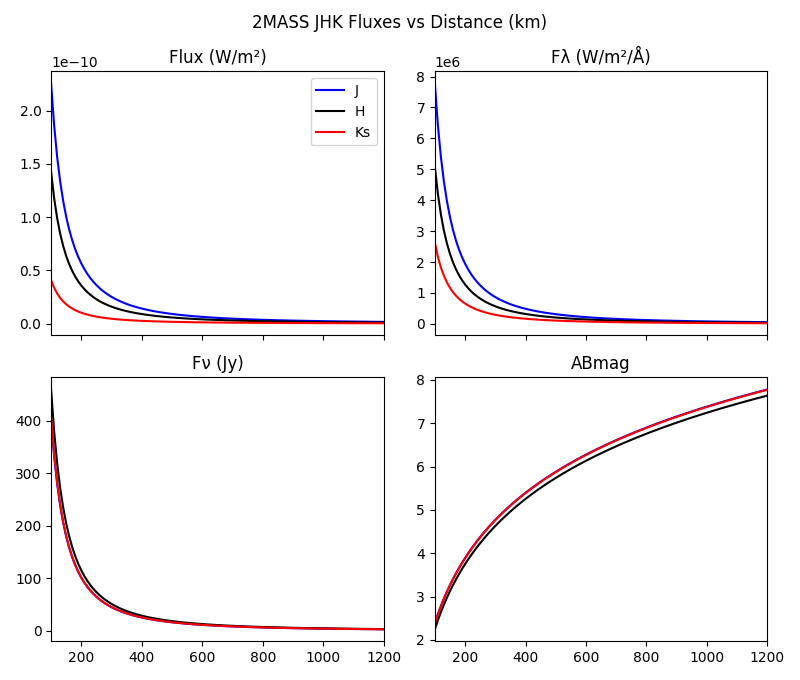
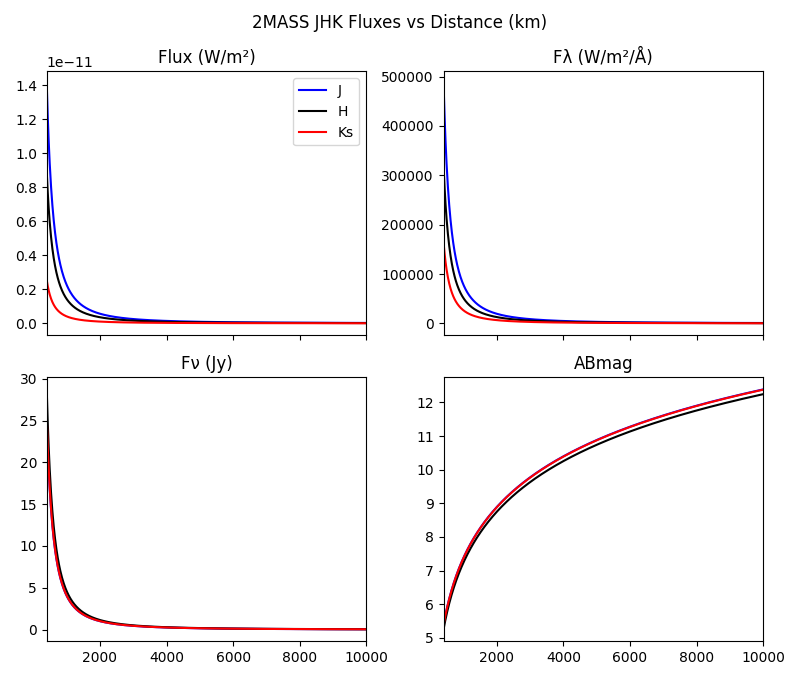
Adjust orbit height (100-1200 km to 400-10,000)

diff --git a/mag_graphs.py b/mag_graphs.py
@@ -10,7 +10,7 @@ c = 299792458 # m/s, has been the defined value since like 1981
 f0 = 3630.78 # Jy for V == 0. Derived from S(Jy) = 1e23 * 10**-(AB+48.6)/2.5 = 10**(3.56-AB/2.5) = 10**((8.9-AB)/2.5). Not used directly, but is listed for comparison purposes. Sources: Oke&Gunn 1983, Fukugita et al 1996. This may implicitly be making Vega magnitude 0 in V, rather than eg: 0.03.
 
 area = 100/(σ*Teff**4) # area in m² of our 100 W emitter
-distance = np.linspace(100e3,1200e3,111) # 100 to 1200 km in 10 km steps
+distance = np.linspace(400e3,10000e3,961) # 400 to 10,000 km in 10 km steps
 
 def planck(λ,T):
 	B = (2*h*c**2/λ**5) / (np.exp(h*c/(λ*k*T)-1))
@@ -70,7 +70,7 @@ for band in Johnson:
 	ax[1,1].plot(distance*1e-3, ABmag, label=name)
 	ax[1,1].set_title("ABmag")
 ax[0,0].legend()
-ax[0,0].set_xlim(100,1200)
+ax[0,0].set_xlim(min(distance)*1e-3,max(distance)*1e-3)
 fig.set_size_inches(8, 6.8)
 fig.tight_layout()
 #fig.savefig("Filters_Johnson.png", dpi=100)
@@ -101,7 +101,7 @@ for band in SDSS:
 	bx[1,1].plot(distance*1e-3, ABmag, label=name)
 	bx[1,1].set_title("ABmag")
 bx[0,0].legend()
-bx[0,0].set_xlim(100,1200)
+bx[0,0].set_xlim(min(distance)*1e-3,max(distance)*1e-3)
 fig.set_size_inches(8, 6.8)
 fig.tight_layout()
 #fig.savefig("Filters_Sloan.png", dpi=100)
@@ -132,7 +132,7 @@ for band in twoMASS:
 	cx[1,1].plot(distance*1e-3, ABmag, label=name)
 	cx[1,1].set_title("ABmag")
 cx[0,0].legend()
-cx[0,0].set_xlim(100,1200)
+cx[0,0].set_xlim(min(distance)*1e-3,max(distance)*1e-3)
 fig.set_size_inches(8, 6.8)
 fig.tight_layout()
 #fig.savefig("Filters_2MASS.png", dpi=100)
